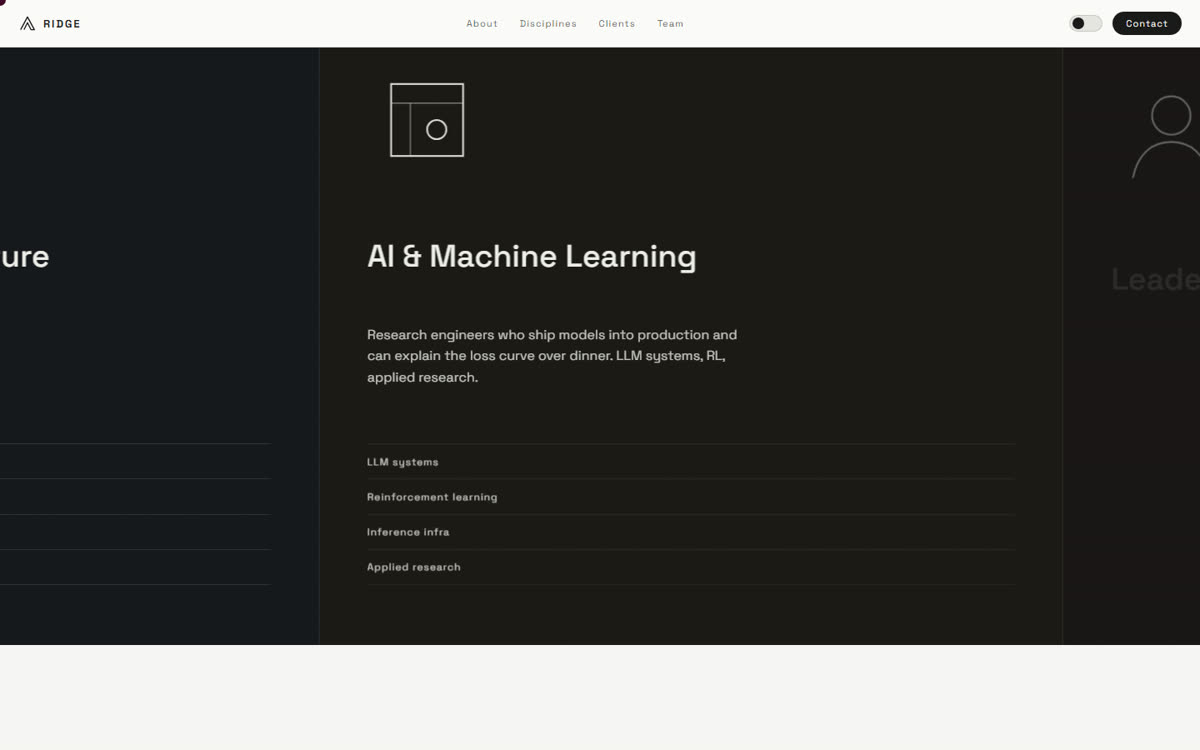
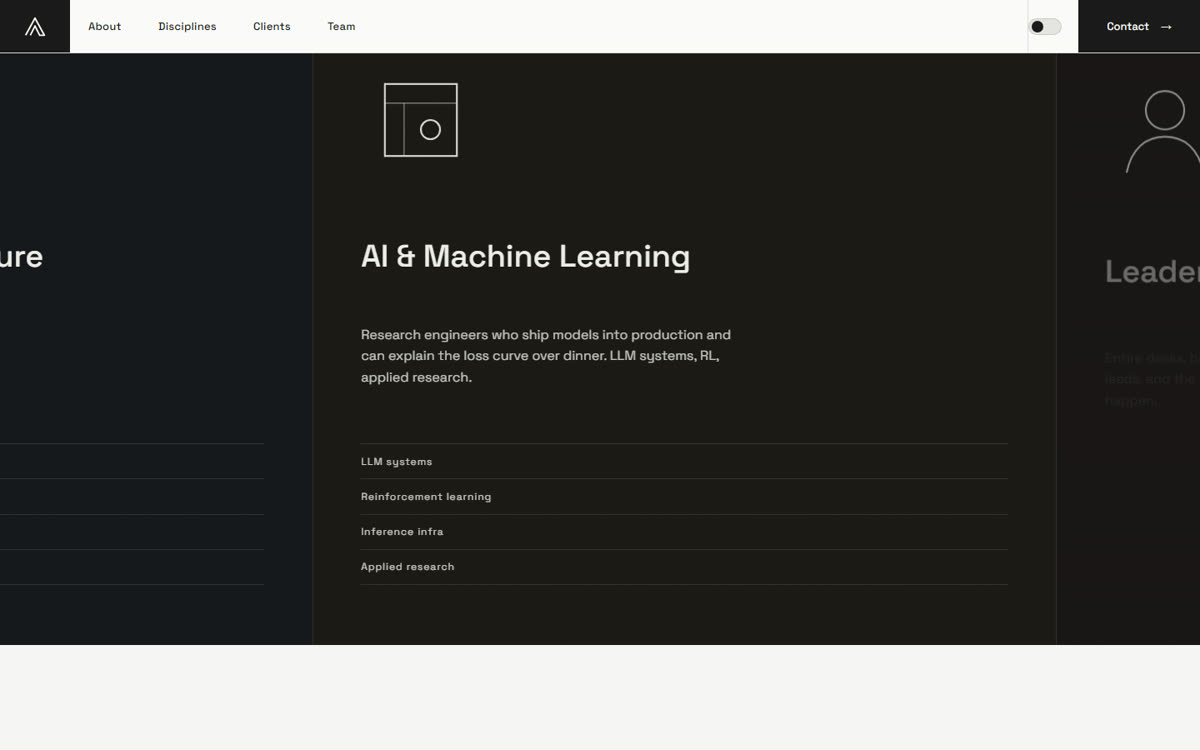
docs: fresh ridge images in README — new grid/hero/footer captures + dither-hover gif

diff --git a/README.md b/README.md
@@ -206,6 +206,10 @@ skill.
 **1. [Ridge](showcase/ridge/index.html)**
 ([source](showcase/ridge/)) — a Swiss-minimal single-page showcase for a fictional engineering-talent studio, direction **Aspen Search** (SOTD + Developer Award, jury 7.48): monochrome `#FAFAF8`/`#1A1A1A` + mint, giant grotesque section markers, halftone grain, asymmetric panel grid, dark discipline panels in an interior **horizontal pin passage**, count-up stats, client rows, theme toggle, cursor-follower. Built with the v1.4.0 toolkit: FTS5-ranked direction search, **both-viewports** reference captures and QA (desktop 7,849px + mobile 390×844), overflow audit (0px both), pin-center shots, film verification — and the skill-memory flywheel recorded the findings. QA evidence: `showcase/ridge/_qa/`.
 
+**The grain-panel hover**, studied from aspensearch.com's recording and rebuilt as a canvas dither-dissolve — dots flip to mint around the mouse, the trail elongates, the boundary dissolves:
+
+![Ridge grain-panel hover — canvas dither-dissolve following the mouse](assets/ridge-dither.gif)
+
 | Panel grid (desktop) | Horizontal discipline passage | Mobile 390×844 |
 |---|---|---|
 | ![Ridge desktop — Swiss panel grid with mint and grain](assets/ridge-home.jpg) | ![Ridge disciplines — pinned horizontal passage mid-slide](assets/ridge-disciplines.jpg) | ![Ridge mobile — stacked grid, zero overflow](assets/ridge-mobile.jpg) |
